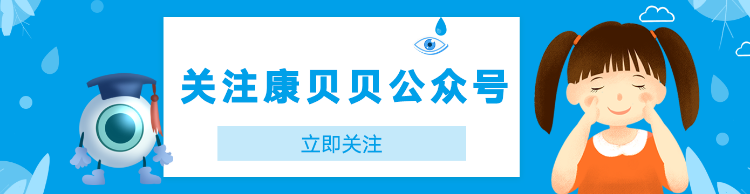
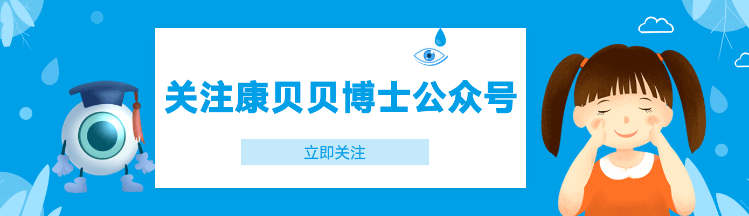
bug修改

diff --git a/src/pages/result/index.vue b/src/pages/result/index.vue
@@ -48,7 +48,7 @@
           <img @click="close" src="../../../static/images/fork.png" alt="关闭">
         </div>
         <p>在客服对话中回复数字1</p>
-        <p>关注【康贝贝】</p>
+        <p>关注【康贝贝博士】</p>
         <button class="click_here" open-type="contact" @click="go">
           去关注
         </button>
@@ -69,8 +69,6 @@ export default {
             rightEyeSub:'',
             shareImage: '',
             painting: {},
-            resultStatus: !1,
-            results: [],
             userInfo: {},
             showTipsFlag: false,
             arr: [
@@ -95,10 +93,6 @@ export default {
       ...mapState(['config'])
     },
     onLoad(q) {
-      // var e = this, s = wx.getStorageSync("results") || [];
-      // s.length > 1 && s.pop(), s.length >= 4 && (this.resultStatus = !0), 
-      // s.unshift(q), wx.setStorageSync("results", s), this.leftEye = q.leftEye,
-      // this.rightEye = q.rightEye, this.results = s;
       this.leftEye = q.leftEye;
       this.leftEyeSub = this.getEyesightSub(q.leftEye);
       this.rightEye = q.rightEye;
@@ -149,16 +143,16 @@ export default {
               {
                 type: 'text',
                 content: '视力测量结果',
-                fontSize: 20,
+                fontSize: 21,
                 color: '#00A0E9',
                 textAlign: 'left',
-                top: 20,
+                top: 40,
                 left: 20
               },
               {
                 type: 'image',
                 url: user.avatarUrl,
-                top: 70,
+                top: 115,
                 left: 35,
                 width: 55,
                 height: 55
@@ -166,7 +160,7 @@ export default {
               {
                 type: 'image',
                 url: '/static/images/white.png',
-                top: 70,
+                top: 115,
                 left: 35,
                 width: 55,
                 height: 55
@@ -177,8 +171,8 @@ export default {
                 fontSize: 18,
                 color: '#00A0E9',
                 textAlign: 'left',
-                top: 90,
-                left: 260,
+                top: 130,
+                left: 265,
                 bolder: true,
                 breakWord: true,
                 MaxLineNumber: 2
@@ -195,7 +189,7 @@ export default {
                 type: 'image',
                 url: '/static/images/sight_view.png',
                 top: 180,
-                left: 12,
+                left: 15,
                 width: 360,
                 height: 200
               },
@@ -279,12 +273,12 @@ export default {
               },
               {
                 type: 'text',
-                content: '关 注 公 众 号，了 解 护 眼 方 法 大 全',
+                content: '关 注 公 众 号，了 解 更 多 护 眼 方 法 大 全',
                 fontSize: 12,
                 color: '#9E9E9E',
                 textAlign: 'left',
                 top: 610,
-                left: 80
+                left: 75
               }
             ]
           }
@@ -358,6 +352,8 @@ export default {
     onShow() {
       // 显示准备界面
       this.setPreFlag(true);
+      this.shareImage = '';
+      this.painting = {};
     }
 }
 </script>

diff --git a/src/pages/height/index.vue b/src/pages/height/index.vue
@@ -33,7 +33,8 @@
             </div>
         </div>
         <div class="height">
-            <p class="tell">偷偷告诉你，真实的身高视力测试才会准哦～</p>
+            <p class="tell">偷偷告诉你，真实的身高</p>
+            <p class="tell">视力测试才会准哦～</p>
             <div class="height_num">
                 <div class="img">
                     <img src="../../../static/images/height_input.png" alt="">
@@ -167,7 +168,7 @@ export default {
     .bg{
         width: 45%;
         height: 50%;
-        margin-top: 36%;
+        margin-top: 40%;
         margin-right: 16%;
         img{
             height: 604rpx;
@@ -179,7 +180,7 @@ export default {
         height: 600rpx;
         position: absolute;
         z-index: 0;
-        right: 4%;
+        right: 0;
         top: 12%;
         .choose{
             width: 100%;
@@ -219,7 +220,7 @@ export default {
         top: 10%;
         left: 2%;
         .tell{
-            height: 80rpx;
+            height: 40rpx;
             width: 300rpx;
             text-align: center;
             font-size: 25rpx;
@@ -229,23 +230,20 @@ export default {
             position: relative;
             width: 300rpx;
             height: 150rpx;
-            .img{
-                width: 80%;
-                height: 75%;
-                img{
-                    max-width: 100%;
-                    max-height: 100%;
-                }
+            img{
+                width: 276rpx;
+                height: 120rpx;
             }
             .num{
                 position: absolute;
                 top: 34rpx;
                 left: 70rpx;
-                font-size: 37rpx;
+                font-size: 42rpx;
                 color: #00A0E9;
                 span{
-                    padding-left: 8rpx;
-                    font-size: 21rpx;
+                    padding-left: 14rpx;
+                    font-size: 24rpx;
+                    font-weight: normal;
                 }
             }
         }
@@ -262,7 +260,7 @@ export default {
         align-items: center;
         justify-content: center;
         .btn{
-            background: #fff;
+            background: transparent;
             width: 100%;
             height: 102rpx;
             line-height: 102rpx;

diff --git a/src/pages/index/index.vue b/src/pages/index/index.vue
@@ -5,13 +5,14 @@
         <img class="img_logo" src="../../../static/images/logo1.png" mode="widthFix" alt="康贝贝">
         <img class="img_bg" :style="{width: sizeStyle.w+'rpx', height: sizeStyle.h+'rpx', marginLeft: sizeStyle.ml+'rpx', marginTop: sizeStyle.mt+'rpx'}" src="../../../static/images/bg.png" alt="眼睛">
       </div>
+      <p>视力检测工具</p>
     </div>
     <div class="text">
-      <p>康贝贝测视力</p>
+      
     </div>    
     <div class="footer">
       <button class="btn" v-show="flag" open-type="getUserInfo" @getuserinfo="getPerson" :disabled="saveFlag">
-        进入康贝贝～
+        进入～
       </button>
       <button class="btn" v-show="!flag" open-type="getPhoneNumber" @getphonenumber="getPhoneNumber" :disabled="saveFlag">
         授权
@@ -206,38 +207,33 @@ export default {
     justify-content: center;
     align-items: center;
     .img{
-      width: 280rpx;
-      height: 280rpx;
+      width: 420rpx;
+      height: 420rpx;
       position: relative;
       z-index: 1;
       .img_logo{
         position: absolute;
         z-index: 3;
-        top: 0;
+        top: 20rpx;
         left: 0;
-        width: 266rpx;
-        height: 260rpx;
+        width: 420rpx;
+        height: 420rpx;
       }
       .img_bg{
         position: absolute;
         z-index: 2; 
         top: 0;
         left: 0;
-        // width: 500rpx;
-        // height: 400rpx;
-        // margin-left: -345rpx;
-        // margin-top: -300rpx;
       }
     }
-  }
-  .text{
-    height: 31%;
-    text-align: center;
-    color: #A5A5A7;
-    font-size: 25rpx;
-    padding-top: 70rpx;
     p{
-      letter-spacing: 16rpx;
+      width: 420rpx;
+      text-align: center;
+      color: #A5A5A7;
+      text-indent: 14rpx;
+      text-align: center;
+      font-size: 25rpx;
+      letter-spacing: 14rpx;
       font-family:Arial, Helvetica, sans-serif;
     }
   }

diff --git a/src/components/prepare.vue b/src/components/prepare.vue
@@ -54,7 +54,6 @@ page{
     display: flex;
     flex-direction: column;
     align-items: center;
-    // justify-content: center;
     .img{
         width: 73%;
         height: 41%;
@@ -65,7 +64,7 @@ page{
             position: absolute;
             top: 22%;
             left: 15%;
-            font-size: 27rpx;
+            font-size: 28rpx;
             color: #ADADAD;
         }
         img{
@@ -81,9 +80,10 @@ page{
             font-weight: bold;
             text-align: center;
             padding-bottom: 20rpx;
+            font-size: 36rpx;
         }
         .direction{
-            font-size: 27rpx;
+            font-size: 30rpx;
             color: #666;
         }
     }
